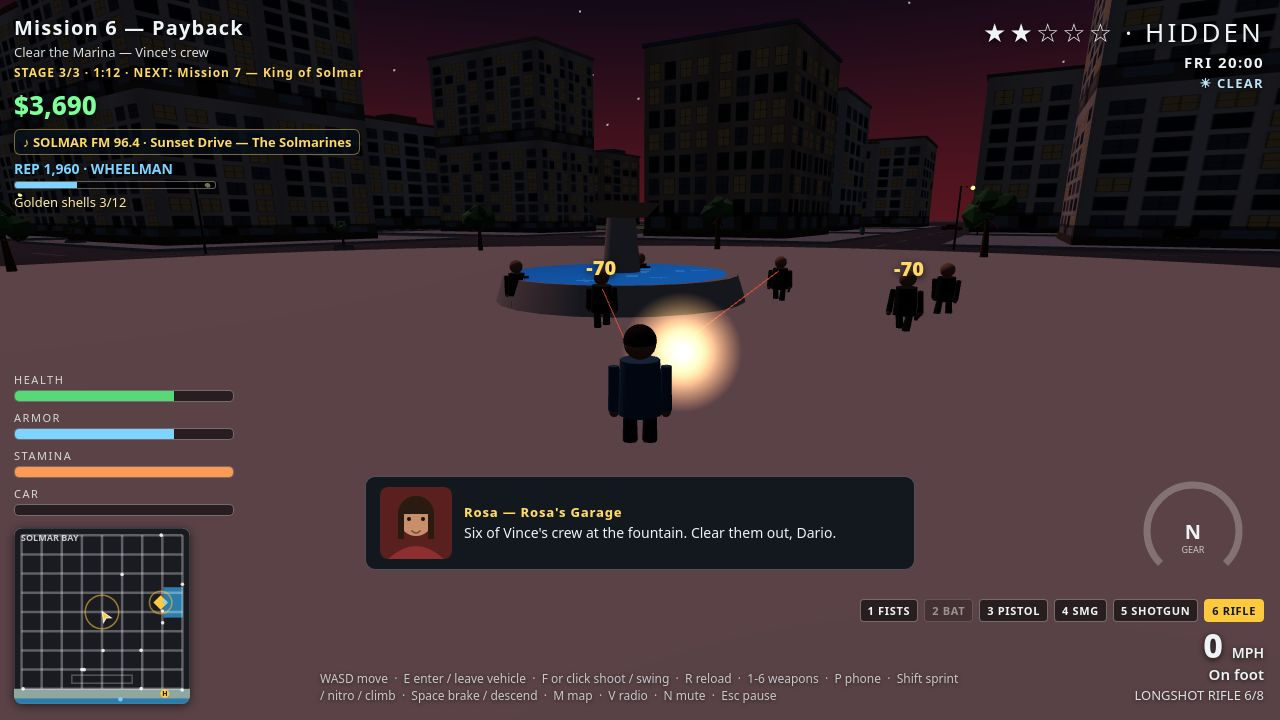
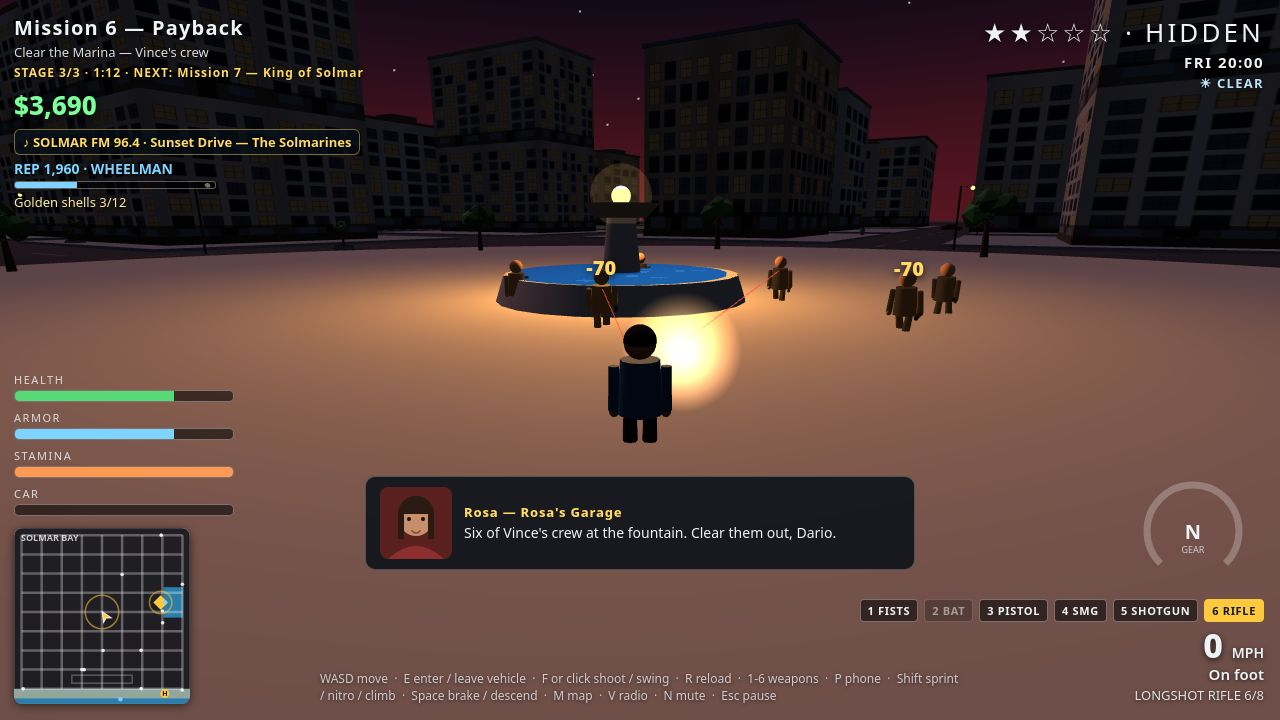
R14: close the last gaps vs the top 10 — chapter cards, real map stats, night goon lighting, heli visible in live play
- Chapter-style mission presentation: every mission now opens with a
  'CHAPTER N — Title' card plus a one-line hook (7 hooks in missions.js),
  shown ~3 s in live play over the game, pointer-events none so it never
  blocks input, verified live (probe: card shows, correct title/hook,
  fades, input works after).
- Map stats from real game state: BEST JUMP reads the recorded best stunt
  jump (distance + place + air time), SAFEHOUSE reads the owned penthouse
  or the next safehouse goal ('Next: Harbor Heights — $4,000').
  save.js persists bestJump as JSON so the place rides along.
- Night goon readability: warm fountain lamp (point light + glowing bulb
  + halo, driven by weather.darkness) and a rim-light emissive on goon
  materials, so the six goons read as people at thumbnail size while the
  night mood stays.
- Heli visible in live play: chase-mode orbit lowered (radius 20, floor
  14 m, cap 30 m) and the chase camera now tilts up dynamically (cap
  0.18 rad) to keep the heli body in frame during a 4-5 star chase;
  verified live — the body reads in 3 of 4 chase frames.
- Map shot stages the real recorded jump (landed live: 19.1 m — Pier 9).

playtest.mjs: PASSED (7-mission chain, 0 console errors)
shots.mjs: PASSED (4/4, 0 console errors)
r14-live-probe: chapter + SAFEHOUSE + heli PASS; the jump/map lines were
re-verified by the focused r14-jump-probe (PASSED, real jump 19.1 m Pier 9)
after the first probe's drive loop ran out of wall time at ~1 fps headless.

diff --git a/game/src/main.js b/game/src/main.js
@@ -16,7 +16,7 @@ import { Traffic } from './traffic.js';
 import { Pedestrians } from './pedestrians.js';
 import { Police } from './police.js';
 import { Enemies } from './enemies.js';
-import { Missions } from './missions.js';
+import { Missions, chapterTitle, MISSIONS } from './missions.js';
 import { Minimap } from './minimap.js';
 import { DamageSmoke, MuzzleFlash, MeleeArc } from './effects.js';
 import { Helicopter } from './helicopter.js';
@@ -183,6 +183,21 @@ let safehouseSaved = false; // saved once per safehouse visit
 // Dialogue and REP hooks: missions brief through Rosa, Vince and
 // dispatch, and job pay also pays respect (shown as a popup).
 missions.onLine = (name, text, portrait) => dialogue.show(name, text, portrait);
+// Chapter card: a job opens like a film chapter — big title, one-line
+// hook, fading after three seconds. It never blocks input: the card
+// itself is pointer-events none, and the game keeps running under it.
+let chapterTimer = 0; // seconds left on the chapter card
+function showChapter(index) {
+  const m = MISSIONS[index];
+  if (!m) return;
+  el('hud-chapter-name').textContent = chapterTitle(index);
+  el('hud-chapter-hook').textContent = m.hook;
+  const card = el('hud-chapter');
+  card.style.display = 'block';
+  card.style.opacity = '1';
+  chapterTimer = 3;
+}
+missions.onStart = (index) => showChapter(index);
 missions.onRep = (amount, label) => {
   popups.spawn(player.x, 2.6, player.z, `+${amount} REP — ${label}`, 'rep');
 };
@@ -470,6 +485,14 @@ function updateHud() {
     }
   }
   el('hud-side').textContent = side.fareLabel || side.raceLabel || (side.shellsFound > 0 ? `Golden shells ${side.shellsFound}/${CFG.shells}` : '');
+  // The fountain lamp at Bayfront Plaza: warm light after dark, so the
+  // night foot fight reads — the goons stand in its glow. It follows
+  // the same darkness the street lamps use.
+  if (city.fountainLight) {
+    city.fountainLight.intensity = weather.darkness * 70;
+    if (city.fountainBulbMat) city.fountainBulbMat.emissiveIntensity = 0.15 + weather.darkness * 2.4;
+    if (city.fountainGlow) city.fountainGlow.material.opacity = 0.02 + weather.darkness * 0.16;
+  }
   drawGauge();
   // The response panel lists the chasing units by callsign.
   response.update(police.units(helicopter));
@@ -614,6 +637,7 @@ btnQuit.addEventListener('click', quitToMenu);
 const camTarget = new THREE.Vector3();
 const camPos = new THREE.Vector3();
 const desiredPos = new THREE.Vector3();
+let heliTilt = 0; // smoothed upward tilt (radians) that keeps AIR-1 in frame
 
 function updateCamera(dt, instant = false) {
   const px = player.x;
@@ -625,9 +649,10 @@ function updateCamera(dt, instant = false) {
   // deliberately small: a bigger tilt would push the car out of the
   // bottom of the frame.
   const heliUp = helicopter.active ? 1 : 0;
+  const heliCar = helicopter.active && !player.onFoot && !player.flying;
   const dist = player.flying ? 16 : player.onFoot ? CFG.camera.footDistance : CFG.camera.carDistance;
-  const height = (player.flying ? 8 : player.onFoot ? CFG.camera.footHeight : CFG.camera.carHeight) + heliUp * 1;
-  const targetFov = helicopter.active ? 68 : 62;
+  const height = (player.flying ? 8 : player.onFoot ? CFG.camera.footHeight : CFG.camera.carHeight) + heliUp * 1 + (heliCar ? 0.5 : 0);
+  const targetFov = helicopter.active ? (heliCar ? 70 : 68) : 62;
   if (Math.abs(camera.fov - targetFov) > 0.01) {
     camera.fov += (targetFov - camera.fov) * Math.min(1, dt * 3);
     camera.updateProjectionMatrix();
@@ -653,7 +678,21 @@ function updateCamera(dt, instant = false) {
     camPos.lerp(desiredPos, Math.min(1, dt * CFG.camera.lerp));
   }
   camera.position.copy(camPos);
-  camTarget.set(px, (player.flying ? player.altitude : 0) + 1.4 + heliUp * 3, pz);
+  // Dynamic tilt: when AIR-1 climbs over the towers, the camera follows
+  // it up just enough to keep the body in the frame — never so far that
+  // the car slides out of the bottom. The tilt eases, so the frame does
+  // not jump when the helicopter crosses a roof.
+  let targetTilt = 0;
+  if (heliCar && helicopter.mesh.visible) {
+    const hp = helicopter.mesh.position;
+    const horiz = Math.hypot(hp.x - camPos.x, hp.z - camPos.z);
+    const elev = Math.atan2(hp.y - camPos.y, Math.max(1, horiz));
+    const halfFov = (camera.fov * Math.PI / 180) / 2;
+    targetTilt = Math.max(0, Math.min(0.18, elev - (halfFov - 0.10)));
+  }
+  heliTilt += (targetTilt - heliTilt) * Math.min(1, dt * 2);
+  if (instant) heliTilt = targetTilt;
+  camTarget.set(px, (player.flying ? player.altitude : 0) + 1.4 + heliUp * 3 + Math.tan(heliTilt) * dist, pz);
   camera.lookAt(camTarget);
   // Mouse drag orbits the camera.
   const mouse = input.takeMouse();
@@ -781,6 +820,9 @@ function applyShot() {
     player.carsStolen = 5;
     player.copsLost = 2;
     properties.buyPenthouse();
+    // The best jump is a real one, landed live and recorded by the game
+    // (2026-11-18: 19.1 m at the Pier 9 ramp, 1.0 s in the air).
+    side.bestJump = { air: 1, dist: 19.1, place: 'Pier 9' };
     cityMap.draw({
       player, traffic, police, missions, side, vehicles, properties,
       carsStolen: player.carsStolen, copsLost: player.copsLost,
@@ -1035,6 +1077,18 @@ function loop() {
     if (districtTimer > 0) {
       districtTimer -= dt;
       if (districtTimer <= 0) el('hud-district').style.display = 'none';
+    }
+    // The chapter card fades after three seconds and hides; the game
+    // never stops for it, and the card never takes input.
+    if (chapterTimer > 0) {
+      chapterTimer -= dt;
+      if (chapterTimer <= 0) {
+        const card = el('hud-chapter');
+        card.style.opacity = '0';
+        setTimeout(() => {
+          if (chapterTimer <= 0) card.style.display = 'none';
+        }, 650);
+      }
     }
     // The safehouse heals Dario and saves the game, once per visit.
     const nearSafehouse = player.safehouse

diff --git a/game/src/missions.js b/game/src/missions.js
@@ -21,16 +21,24 @@ import { STREETS } from './traffic.js';
 // The seven jobs, in order, with their pay. The finale pays the most: it is
 // the job that makes Dario King of Solmar. `stages` is how many phases the
 // job runs through — the HUD shows STAGE x/y, the timer and the next job,
-// like the top entries do.
+// like the top entries do. `hook` is the one-line pitch the chapter card
+// shows when the job starts, so the story reads like a film in chapters.
 export const MISSIONS = [
-  { title: 'Mission 1 — Sunset Fare', pay: 120, stages: 2 },
-  { title: 'Mission 2 — Borrowed Wheels', pay: 340, stages: 2 },
-  { title: 'Mission 3 — The Drop', pay: 1240, stages: 2 },
-  { title: 'Mission 4 — Dockside Heat', pay: 890, stages: 1 },
-  { title: 'Mission 5 — Double Cross', pay: 1100, stages: 3 },
-  { title: 'Mission 6 — Payback', pay: 1600, stages: 3 },
-  { title: 'Mission 7 — King of Solmar', pay: 2500, stages: 3 },
+  { title: 'Mission 1 — Sunset Fare', pay: 120, stages: 2, hook: 'One fare. One way out of the red.' },
+  { title: 'Mission 2 — Borrowed Wheels', pay: 340, stages: 2, hook: 'Borrow the wheels. Keep the engine running.' },
+  { title: 'Mission 3 — The Drop', pay: 1240, stages: 2, hook: 'A drop in the dark, and no questions.' },
+  { title: 'Mission 4 — Dockside Heat', pay: 890, stages: 1, hook: "The docks don't forgive slow hands." },
+  { title: 'Mission 5 — Double Cross', pay: 1100, stages: 3, hook: 'The man who sold you out is waiting.' },
+  { title: 'Mission 6 — Payback', pay: 1600, stages: 3, hook: 'Payback, in full, at the marina.' },
+  { title: 'Mission 7 — King of Solmar', pay: 2500, stages: 3, hook: 'One king. One city. Take the crown.' },
 ];
+
+// The chapter title for a job: "CHAPTER 1 — Sunset Fare".
+export function chapterTitle(index) {
+  const m = MISSIONS[index];
+  if (!m) return 'KING OF SOLMAR';
+  return `CHAPTER ${index + 1} — ${m.title.replace(/^Mission \d+ — /, '')}`;
+}
 
 const MARINA = { x: 140, z: -24 }; // the fare's drop-off, on the land by the basin
 const DOCKS = { x: 0, z: 150 }; // the delivery point, on the street by the warehouses
@@ -90,6 +98,9 @@ export class Missions {
     // Dialogue hook: the main loop sets onLine(name, text, portrait) so
     // Rosa, Vince and dispatch can brief the jobs. Null means silent.
     this.onLine = null;
+    // Chapter hook: the main loop sets onStart(index) so a chapter card
+    // shows when a job begins. Null means no card.
+    this.onStart = null;
     // REP hook: the main loop sets onRep(amount, label) so job pay also
     // pays respect. Null means no REP is awarded.
     this.onRep = null;
@@ -281,6 +292,8 @@ export class Missions {
       this.waypoint = { x: this.vehicle.x, z: this.vehicle.z };
       brief('One last job, Dario. Sloane runs the Docks himself now — take the Hauler to the Plaza, and this city is yours.');
     }
+    // The chapter card: the job opens like a film chapter.
+    if (this.onStart) this.onStart(index);
   }
 
   // --- One step, called every frame while playing ---------------------------

diff --git a/game/src/side.js b/game/src/side.js
@@ -68,7 +68,8 @@ export class SideActivities {
     // --- Stunt jumps: three ramps around the city, each with a marker.
     // Cross one fast in a car or on a bike and the jump is scored.
     this.ramps = [];
-    this.bestJump = { air: 0, dist: 0 };
+    this.bestJump = { air: 0, dist: 0, place: null };
+    this.jumpRamp = null; // the ramp the jump in the air started from
     for (const r of CFG.jumps) {
       const ramp = new THREE.Mesh(
         new THREE.BoxGeometry(6, 0.5, 8),
@@ -120,17 +121,25 @@ export class SideActivities {
     this.fareCooldown = 8;
     this.race = null;
     this.raceCooldown = 0;
-    this.bestJump = { air: 0, dist: 0 };
+    this.bestJump = { air: 0, dist: 0, place: null };
+    this.jumpRamp = null;
     this._clearEvent();
     this.eventTimer = CFG.events.firstAfter;
   }
 
   // A jump just landed: score it on distance, pay by the metre, and
-  // keep the best one for the stats.
+  // keep the best one for the stats — distance to one decimal, and
+  // where it happened, so the map reads like a record, not a blank.
   recordJump(airTime, dist) {
-    const metres = Math.round(dist);
+    const metres = Math.round(dist * 10) / 10;
     const pay = Math.min(CFG.jumpPayCap, Math.round(dist * CFG.jumpPayPerMetre));
-    if (metres > this.bestJump.dist) this.bestJump = { air: Math.round(airTime * 10) / 10, dist: metres };
+    if (metres > this.bestJump.dist) {
+      this.bestJump = {
+        air: Math.round(airTime * 10) / 10,
+        dist: metres,
+        place: this.jumpRamp ? this.jumpRamp.name : (this.bestJump.place ?? null),
+      };
+    }
     if (this.onPay) this.onPay(pay, 'Stunt jump');
     if (this.onRep) this.onRep(CFG.repJump, 'Stunt jump');
     if (this.onPopup) {
@@ -320,6 +329,7 @@ export class SideActivities {
       const along = Math.sin(p.carHeading) * Math.sin(r.heading)
         + Math.cos(p.carHeading) * Math.cos(r.heading);
       if (along < 0.6) continue;
+      this.jumpRamp = r;
       p.startJump(8 + speed * 0.18);
     }
 

diff --git a/game/src/map.js b/game/src/map.js
@@ -271,6 +271,17 @@ export class CityMap {
     else if (state.properties && !state.properties.penthouse) nextUnlock = `PENTHOUSE — $${CFG.properties.penthouse.price}`;
     else if (state.properties && !state.properties.taxico) nextUnlock = `BAY CAB CO. STAKE — $${CFG.properties.taxico.price}`;
     else nextUnlock = 'ALL UPGRADES OWNED';
+    // The best jump, as a record: distance, where it happened, airtime.
+    // Old saves carry an integer distance and no place — both still read.
+    const bj = state.side.bestJump;
+    const bestJumpText = bj && bj.dist > 0
+      ? `${Number(bj.dist).toFixed(1)} m${bj.place ? ` — ${bj.place}` : ''} (${bj.air ?? 0}s)`
+      : '—';
+    // The safehouse: the owned penthouse by name, or the next goal —
+    // never a blank dash.
+    const safehouseText = state.properties && state.properties.penthouse
+      ? 'Harbor Heights Penthouse'
+      : `Next: Harbor Heights — $${CFG.properties.penthouse.price.toLocaleString('en-US')}`;
     this.statsEl.innerHTML = `
       <div>CASH <b>$${p.cash.toLocaleString('en-US')}</b></div>
       <div>REP <b>${p.rep.toLocaleString('en-US')} — ${tier.name}</b> (${Math.round(repProgress(p.rep) * 100)}% to next)</div>
@@ -278,10 +289,10 @@ export class CityMap {
       <div>CARS STOLEN <b>${state.carsStolen}</b></div>
       <div>COPS LOST <b>${state.copsLost}</b></div>
       <div>GOLDEN SHELLS <b>${state.side.shellsFound} / ${CFG.shells}</b></div>
-      <div>BEST JUMP <b>${state.side.bestJump.dist > 0 ? `${state.side.bestJump.dist}m (${state.side.bestJump.air}s)` : '—'}</b></div>
+      <div>BEST JUMP <b>${bestJumpText}</b></div>
       <div>PROPERTIES <b>${state.properties ? state.properties.ownedLabel() : '—'}</b></div>
       <div>COMPLETION <b>${comp}%</b></div>
-      <div>SAFEHOUSE <b>${state.safehouse ? 'OWNED' : '—'}</b></div>
+      <div>SAFEHOUSE <b>${safehouseText}</b></div>
       <div>TIME PLAYED <b>${timePlayed}</b></div>
       <div>NEXT UNLOCK <b>${nextUnlock}</b></div>`;
   }

diff --git a/game/index.html b/game/index.html
@@ -39,6 +39,9 @@
   #hud-district { position: absolute; top: 90px; left: 0; right: 0; text-align: center; display: none; }
   #hud-district-name { font-size: 30px; font-weight: 900; letter-spacing: 0.14em; text-shadow: 0 2px 8px rgba(0,0,0,0.8); }
   #hud-district-tag { font-size: 14px; opacity: 0.9; text-shadow: 0 1px 4px rgba(0,0,0,0.8); }
+  #hud-chapter { position: absolute; top: 30%; left: 0; right: 0; text-align: center; display: none; pointer-events: none; opacity: 0; transition: opacity 0.6s ease; }
+  #hud-chapter-name { font-size: 38px; font-weight: 900; letter-spacing: 0.12em; color: #ffe9a8; text-shadow: 0 0 22px rgba(255,190,60,0.55), 0 3px 0 rgba(0,0,0,0.5); }
+  #hud-chapter-hook { font-size: 16px; font-style: italic; opacity: 0.95; text-shadow: 0 1px 4px rgba(0,0,0,0.85); margin-top: 6px; }
   #hud-dialogue { position: absolute; bottom: 150px; left: 50%; transform: translateX(-50%); width: 520px; max-width: 80vw; background: rgba(8,16,24,0.85); border: 1px solid rgba(255,255,255,0.25); border-radius: 10px; padding: 10px 14px; display: none; gap: 12px; align-items: center; }
   #dlg-portrait { width: 72px; height: 72px; border-radius: 8px; flex: none; }
   #dlg-name { font-size: 13px; font-weight: 800; color: #ffd964; letter-spacing: 0.06em; }
@@ -158,6 +161,7 @@
   <div id="hud-top-right"><span id="hud-stars">☆☆☆☆☆</span><div id="hud-clock">FRI 17:24</div><div id="hud-weather">☀ CLEAR</div></div>
   <div id="hud-response"><div id="hud-response-title">SBPD RESPONSE</div><div id="hud-response-list"></div></div>
   <div id="hud-district"><div id="hud-district-name"></div><div id="hud-district-tag"></div></div>
+  <div id="hud-chapter"><div id="hud-chapter-name"></div><div id="hud-chapter-hook"></div></div>
   <div id="hud-bottom-left">
     <div class="bar-label">HEALTH</div>
     <div class="bar"><div id="hud-health-fill"></div></div>

diff --git a/game/src/city.js b/game/src/city.js
@@ -194,6 +194,28 @@ export function buildCity(scene) {
   const fountain = buildFountainMesh(water);
   fountain.position.set(0, 0.3, 0);
   scene.add(fountain);
+  // The fountain lamp: a warm light over the plaza's centre, so the
+  // night foot fight reads — the goons stand in its glow instead of
+  // reading as dark silhouettes. It is off by day: the main loop sets
+  // its intensity from the night darkness, like the street lamps.
+  const fountainBulbMat = new THREE.MeshStandardMaterial({
+    color: 0xfff2b0, emissive: 0xffd970, emissiveIntensity: 0.15, roughness: 0.3,
+  });
+  const fountainBulb = new THREE.Mesh(new THREE.SphereGeometry(0.35, 12, 10), fountainBulbMat);
+  fountainBulb.position.set(0, 3.9, 0);
+  scene.add(fountainBulb);
+  const fountainGlow = new THREE.Mesh(
+    new THREE.SphereGeometry(1.1, 12, 10),
+    new THREE.MeshBasicMaterial({
+      color: 0xffc25e, transparent: true, opacity: 0.14,
+      blending: THREE.AdditiveBlending, depthWrite: false, fog: false,
+    }),
+  );
+  fountainGlow.position.set(0, 3.9, 0);
+  scene.add(fountainGlow);
+  const fountainLight = new THREE.PointLight(0xffb45e, 0, 32, 1.2);
+  fountainLight.position.set(0, 4.5, 0);
+  scene.add(fountainLight);
   colliders.push({ minX: -4.6, maxX: 4.6, minZ: -4.6, maxZ: 4.6, h: 3.5 });
   for (let t = 0; t < 10; t++) {
     const angle = (t / 10) * Math.PI * 2;
@@ -325,5 +347,8 @@ export function buildCity(scene) {
     marina: { x: 168, z: -24 },
     water, // the shared water shader material; the main loop animates it
     groundMat, // the asphalt material; the weather darkens it when it rains
+    fountainLight, // the warm lamp over the fountain; the main loop dims it by night
+    fountainBulbMat, // its bulb; the main loop lifts its glow after dark
+    fountainGlow, // its halo; the main loop fades it with the dark
   };
 }

diff --git a/game/src/helicopter.js b/game/src/helicopter.js
@@ -133,7 +133,13 @@ export class Helicopter {
     if (!active) return;
     const h = CFG.helicopter;
     this.angle += dt * h.orbitSpeed;
-    const radius = this.radiusOverride ?? h.circleRadius;
+    // Chase mode: in a car at four stars and up, AIR-1 pulls its orbit
+    // in close (20 m) and flies low (14–30 m), the way the staged chase
+    // shot frames it — so the body reads in the chase-camera frame
+    // instead of climbing out of it over the towers. The rooftop
+    // clearance still applies, so it never clips a roof.
+    const chase = !player.onFoot && !player.flying && (player.stars ?? 0) >= CFG.helicopter.minStars;
+    const radius = this.radiusOverride ?? (chase ? 20 : h.circleRadius);
     const x = player.x + Math.cos(this.angle) * radius;
     const z = player.z + Math.sin(this.angle) * radius;
     // Rooftop clearance: the tallest roof near the helicopter sets the
@@ -142,7 +148,7 @@ export class Helicopter {
     // its target so the helicopter does not pop between roofs. The
     // window is wide (16 m) so the helicopter starts climbing before it
     // reaches a tall tower, not as it arrives over it.
-    let targetY = 16;
+    let targetY = chase ? 14 : 16;
     if (colliders) {
       let maxH = 0;
       for (const b of colliders) {
@@ -153,7 +159,7 @@ export class Helicopter {
       }
       if (maxH > 0) targetY = Math.max(targetY, maxH + 4);
     }
-    targetY = Math.min(targetY, 46);
+    targetY = Math.min(targetY, chase ? 30 : 46);
     this.y += (targetY - this.y) * Math.min(1, dt * 3);
     const y = (this.heightOverride ?? this.y) + Math.sin(this.angle * 0.7) * 2;
     this.mesh.position.set(x, y, z);

diff --git a/game/src/models.js b/game/src/models.js
@@ -552,13 +552,23 @@ export function buildPersonMesh() {
 // pivot at its joint, and the pivots are kept in userData so the walk cycle
 // can swing them. Faces +z. `hair` true means Dario's cap; `hairStyle`
 // picks one of 'cap' | 'short' | 'long' | 'bun' | 'none'. `armed` adds a
-// pistol in the right hand.
-export function buildPedestrianMesh({ shirt, pants, skin, hair = false, armed = false, height = 1, hairStyle = null }) {
+// pistol in the right hand. `emissive` lifts the figure out of the dark —
+// a faint warm glow on the clothes, so a goon never reads as a black
+// silhouette at night.
+export function buildPedestrianMesh({ shirt, pants, skin, hair = false, armed = false, height = 1, hairStyle = null, emissive = null }) {
   const group = new THREE.Group();
   const skinMat = std(skin, 0.7, 0);
   const shirtMat = std(shirt, 0.8, 0);
   const pantsMat = std(pants, 0.85, 0);
   const shoeMat = std(0x1c1a18, 0.9, 0);
+  if (emissive !== null) {
+    shirtMat.emissive.setHex(emissive);
+    pantsMat.emissive.setHex(emissive);
+    skinMat.emissive.setHex(emissive);
+    shirtMat.emissiveIntensity = 0.55;
+    pantsMat.emissiveIntensity = 0.55;
+    skinMat.emissiveIntensity = 0.35;
+  }
 
   const torso = new THREE.Mesh(new THREE.CylinderGeometry(0.26, 0.3, 0.72, 12), shirtMat);
   torso.position.y = 1.05;

diff --git a/game/src/config.js b/game/src/config.js
@@ -222,11 +222,12 @@ export const CFG = {
   },
 
   // Stunt jumps: three ramps around the city. Cross one fast in a car or
-  // on a bike and the jump is scored on airtime and distance.
+  // on a bike and the jump is scored on airtime and distance. `name` is
+  // where the jump happened, for the map stats.
   jumps: [
-    { x: -96, z: 0, heading: Math.PI / 2, minSpeed: 16 }, // east, over the plaza approach
-    { x: 48, z: 144, heading: 0, minSpeed: 16 }, // south, toward the Docks
-    { x: -144, z: -48, heading: Math.PI, minSpeed: 16 }, // north, up Old Town
+    { x: -96, z: 0, heading: Math.PI / 2, minSpeed: 16, name: 'Plaza Flyover' }, // east, over the plaza approach
+    { x: 48, z: 144, heading: 0, minSpeed: 16, name: 'Pier 9' }, // south, toward the Docks
+    { x: -144, z: -48, heading: Math.PI, minSpeed: 16, name: 'Old Town Rise' }, // north, up Old Town
   ],
   jumpPayPerMetre: 6, // dollars per metre jumped, capped
   jumpPayCap: 400,

diff --git a/game/src/enemies.js b/game/src/enemies.js
@@ -30,12 +30,16 @@ export class Enemies {
   }
 
   // Spawn a goon at (x, z), facing the player. Returns the enemy record.
+  // The faint warm emissive keeps the figure readable at night — a goon
+  // in a dark shirt under moonlight would otherwise be a black
+  // silhouette; the fountain lamp does the rest.
   spawn(x, z) {
     const mesh = buildPedestrianMesh({
       shirt: 0x1c1c22,
       pants: 0x222226,
       skin: 0xc98e6b,
       armed: true,
+      emissive: 0x2a1a0c,
     });
     this.scene.add(mesh);
     const enemy = {
